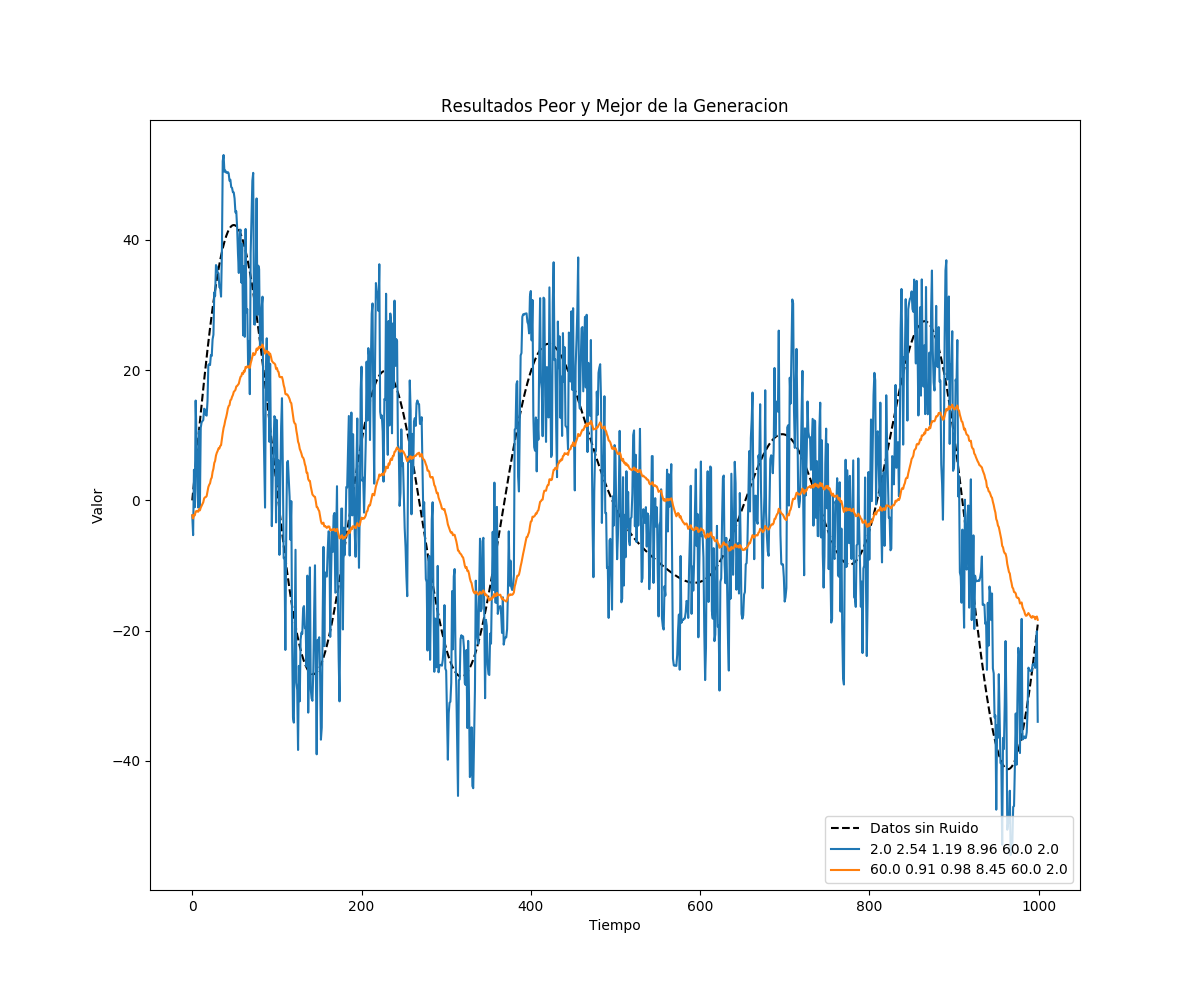
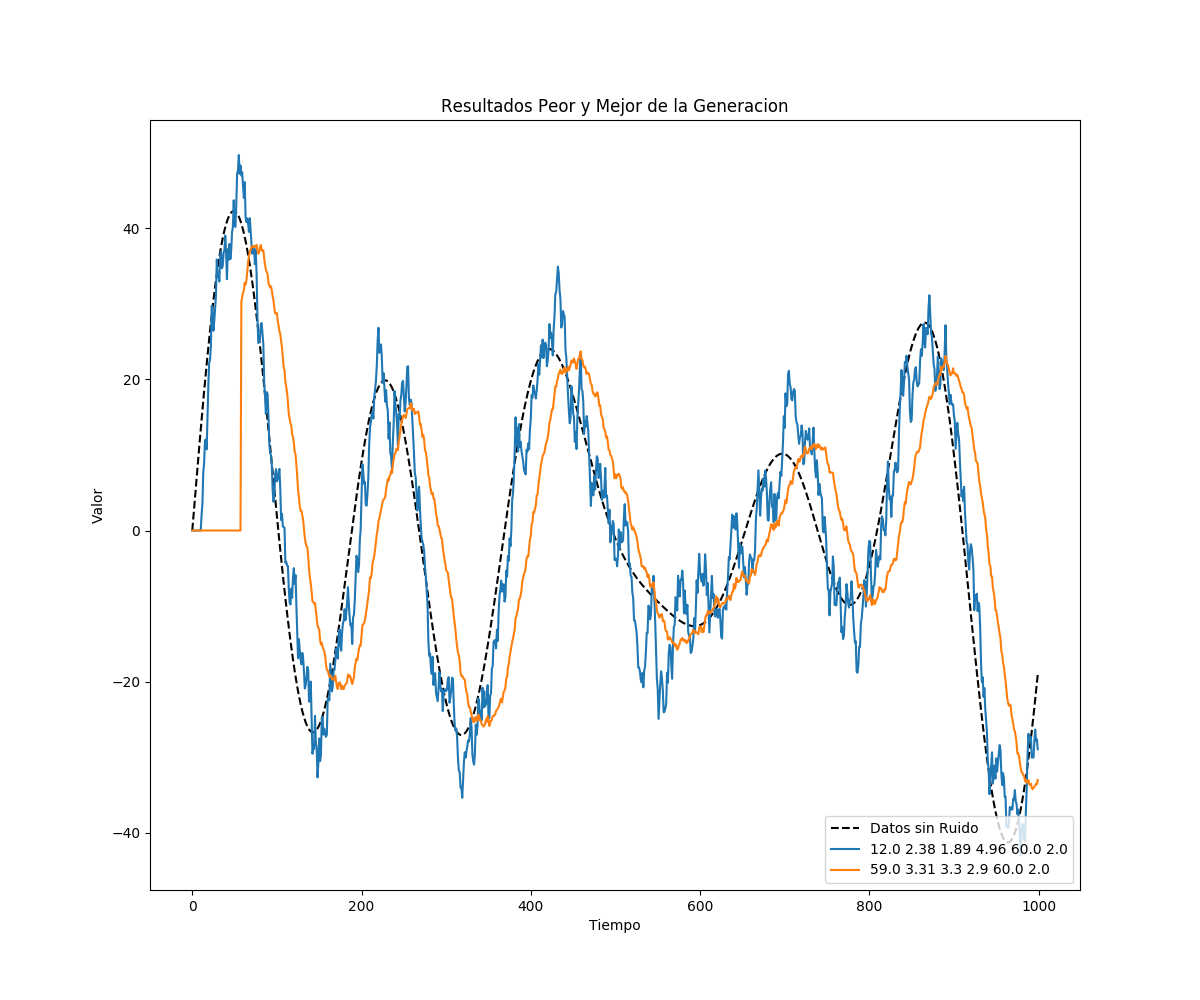
Corrigiendo cruza

Changed region(s): [[0.1542, 0.155, 0.8942, 0.899], [0.0925, 0.744, 0.1233, 0.775], [0.0925, 0.217, 0.1233, 0.248]]

diff --git a/TP/fun_jose.py b/TP/fun_jose.py
@@ -134,7 +134,8 @@ def run_test(param, data):
     #deve devolver la curva resultado del filtro
     #este filtro debe recivir el vector de valores de contagio del COVID
 
-    return FiltroDEWMA(param, data)
+    #return FiltroDEWMA(param, data)
+    return FiltroFIR(param[0], data)
 
 
 
